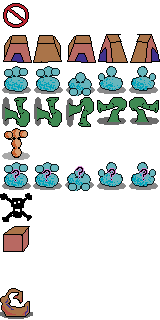
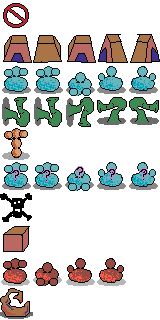
clenz

Changed region(s): [[0.4062, 0.7812, 0.7812, 0.9062], [0.0, 0.7812, 0.1875, 0.9062], [0.2188, 0.8125, 0.375, 0.9062]]

diff --git a/src/tiles/Shooter.js b/src/tiles/Shooter.js
@@ -14,7 +14,7 @@ class Shooter extends Tile {
 
   static type = "Shooter";
   static rotates = true;
-  static icon = { x: 0, y: 4 };
+  static icon = { x: 0, y: 8 };
 
   state = new State( "IDLE" );
   speed = 0.3;
@@ -49,11 +49,7 @@ class Shooter extends Tile {
         return;
 
       }
-
-      //map.removeItem(  item );
       this.frame.x++;
-      //this.item = null;
-
       this.state.to( "SHOOTING" );
 
     }
@@ -83,8 +79,6 @@ class Shooter extends Tile {
 
       }
       this.frame.x++;
-      //this.item = new Bronze();
-      //map.addItem( this.item, map.worldToTilePosition( pos ), true );
       this.state.to( "SHOT" );
 
     }
